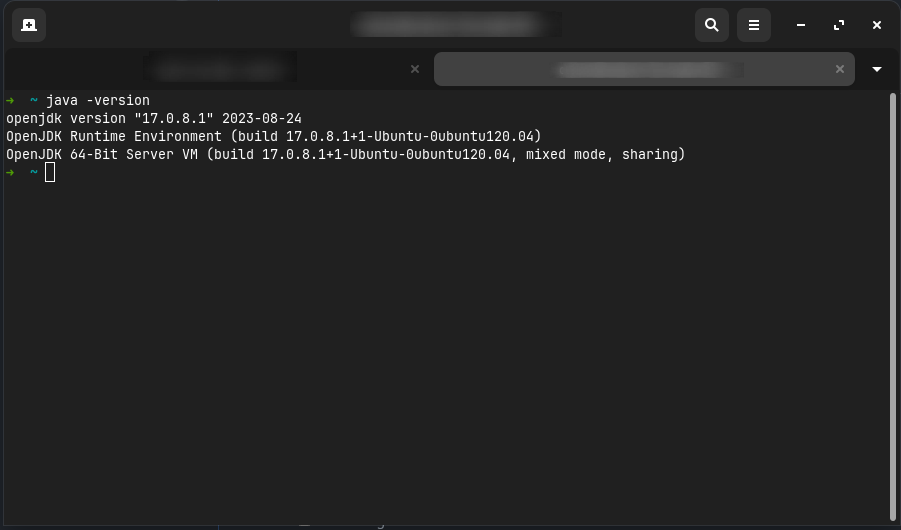
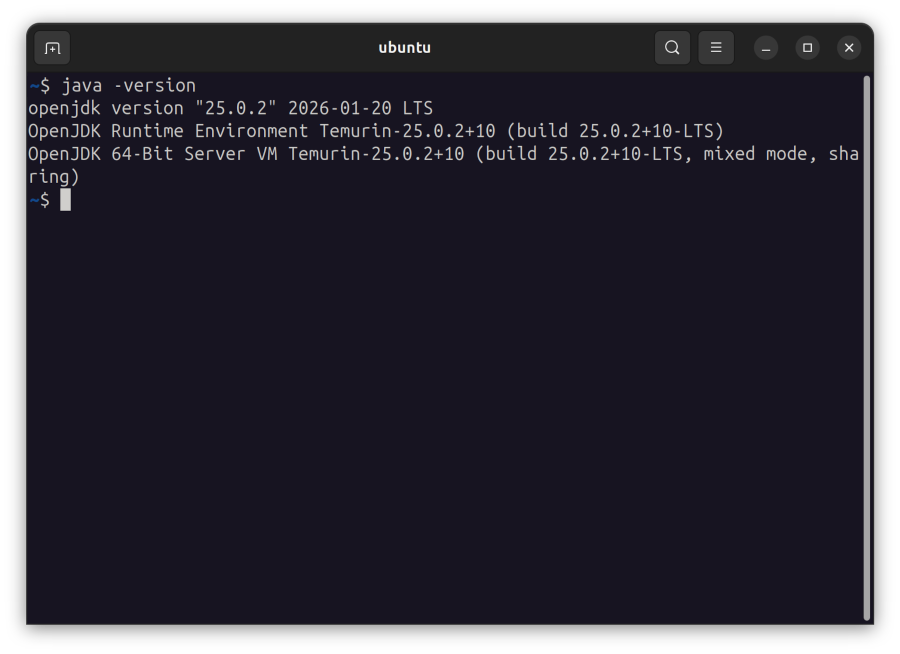
Add some of the Linux and MacOS screenshots

Changed region(s): [[0.0, 0.0, 1.0, 1.0]]

diff --git a/players/installing-java/linux.md b/players/installing-java/linux.md
@@ -85,7 +85,7 @@ sudo dnf install java-25-openjdk-devel
 
 ### Other Linux Distributions {#other-linux-distributions}
 
-If your distribution isn't listed above, you can download the latest JRE from [Adoptium](https://adoptium.net/temurin/)
+If your distribution isn't listed above, you can download the latest JRE from [Adoptium](https://adoptium.net/installation/linux)
 
 You should refer to an alternative guide for your distribution if you plan to develop mods.
 